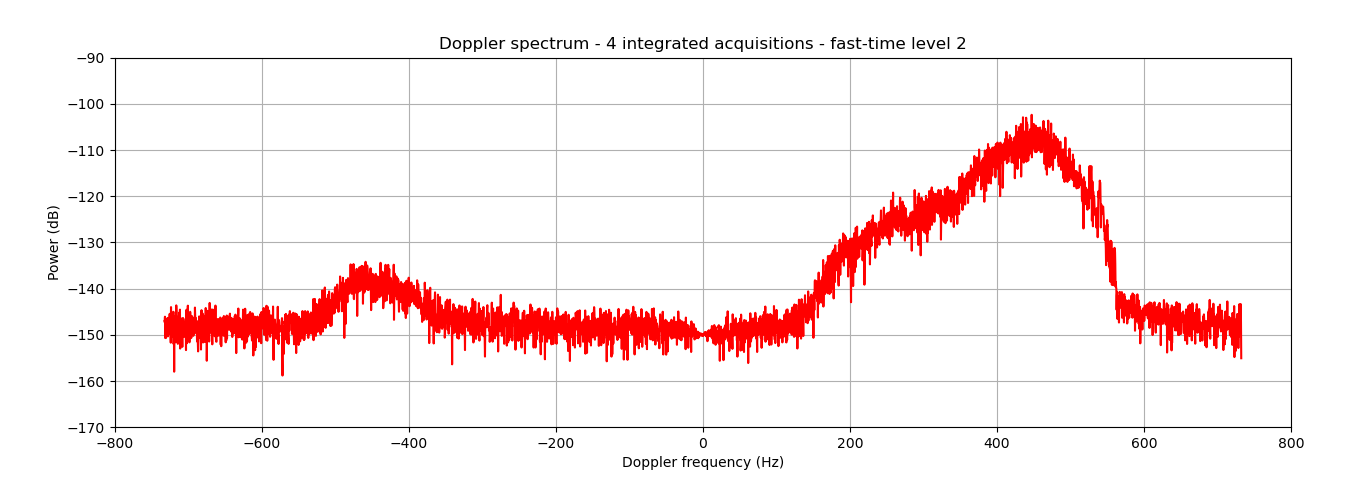
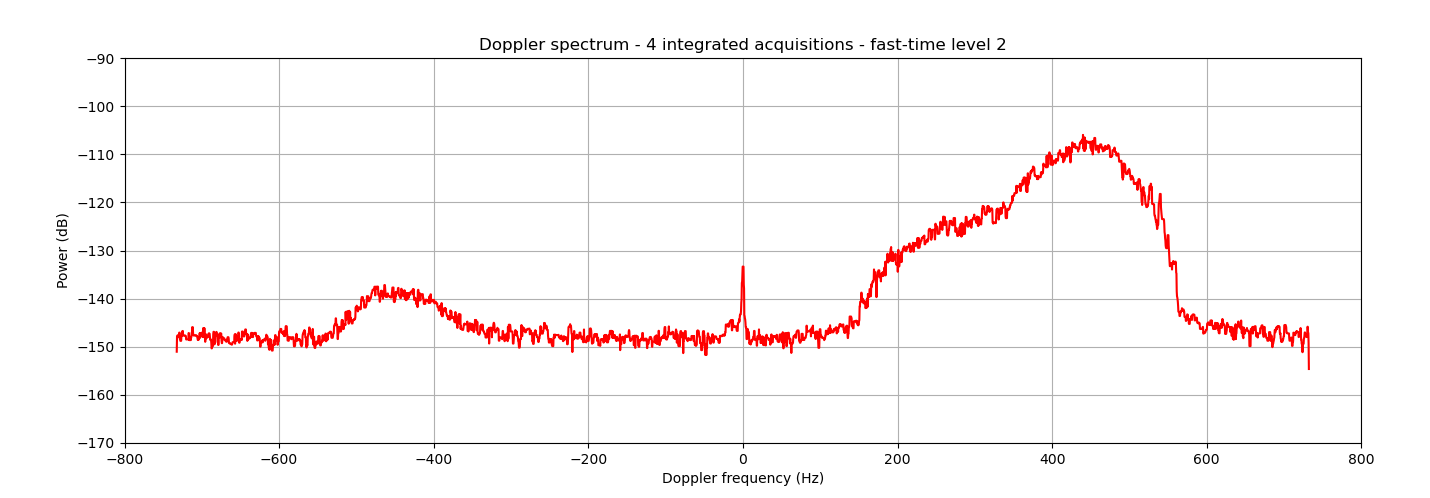
-Progress on ROXI. -Adding a SEIS section.

diff --git a/docs/TP_ROXI.md b/docs/TP_ROXI.md
@@ -161,16 +161,11 @@ plt.show()
 
 ## Filtrage
 
-### Clutter et filtre passe-haut
+### Ground clutter
 
 ![Exemple de spectre avant filtrage du clutter](img/ROXI_spectrum_before_filtering_example.png)
 
-### Filtre de Butterworth avec Scipy
-
-~~~
-b,a = butter(1,50,fs=1/slow_time_dt,btype='highpass')
-iq = lfilter(b,a,iq)
-~~~
+### Filtre médian
 
 ![Exemple de spectre après filtrage du clutter](img/ROXI_spectrum_after_filtering_example.png)
 
@@ -190,9 +185,13 @@ plt.show()
 
 ## Interprétation météorologique
 
-### Conversion en vitesses
+### Conversion en vitesses et élévations
 
-### Compensation de l'altitude
+![Exemple de spectrogramme Doppler avec des axes météorologiques](img/ROXI_spectrogram_meteo_axis_example.png)
+
+### Compensation de la distance
+
+![Exemple de spectrogramme Doppler avec compensation de la distance](img/ROXI_spectrogram_distance_correction_example.png)
 
 ### Constante radar et étalonnage
 

diff --git a/docs/index.md b/docs/index.md
@@ -20,11 +20,13 @@ L'objectif est qu'à la fin de ce cours vous soyez capables d'implémenter une c
 
 - Affichage graphique et exportation.
 
-Ce cours sera divisé en 3 temps :
+Ce cours sera divisé en 4 temps :
 
 - Un 1er **tutoriel**  sur les données du radar météorologique ROXI, que vous trouverez sur ce site web.
 
-- Un 2nd **tutoriel** sur les données du radar à pénétration de sol RIMFAX, que vous trouverez également sur ce site web.
+- Un 2nd **tutoriel** sur les données du radar à pénétration de sol martien RIMFAX, que vous trouverez également sur ce site web.
+
+- Un 3ème **tutoriel** sur les données du sismomètre martien SEIS, que vous trouverez également sur ce site web.
 
 - Un **projet évalué** lors duquel vous mettrez en application ce que vous avez appris, sur un nouvel exemple.
 

diff --git a/docs/TP_SEIS.md b/docs/TP_SEIS.md
@@ -1,0 +1,15 @@
+# SEIS : le premier sismomètre martien
+
+## Contexte scientifique
+
+![Illustration SEIS](img/.png)
+
+## Objectifs
+
+## Importation des données
+
+## Analyse spectrale
+
+## Filtrage
+
+## Interprétation sismologique
